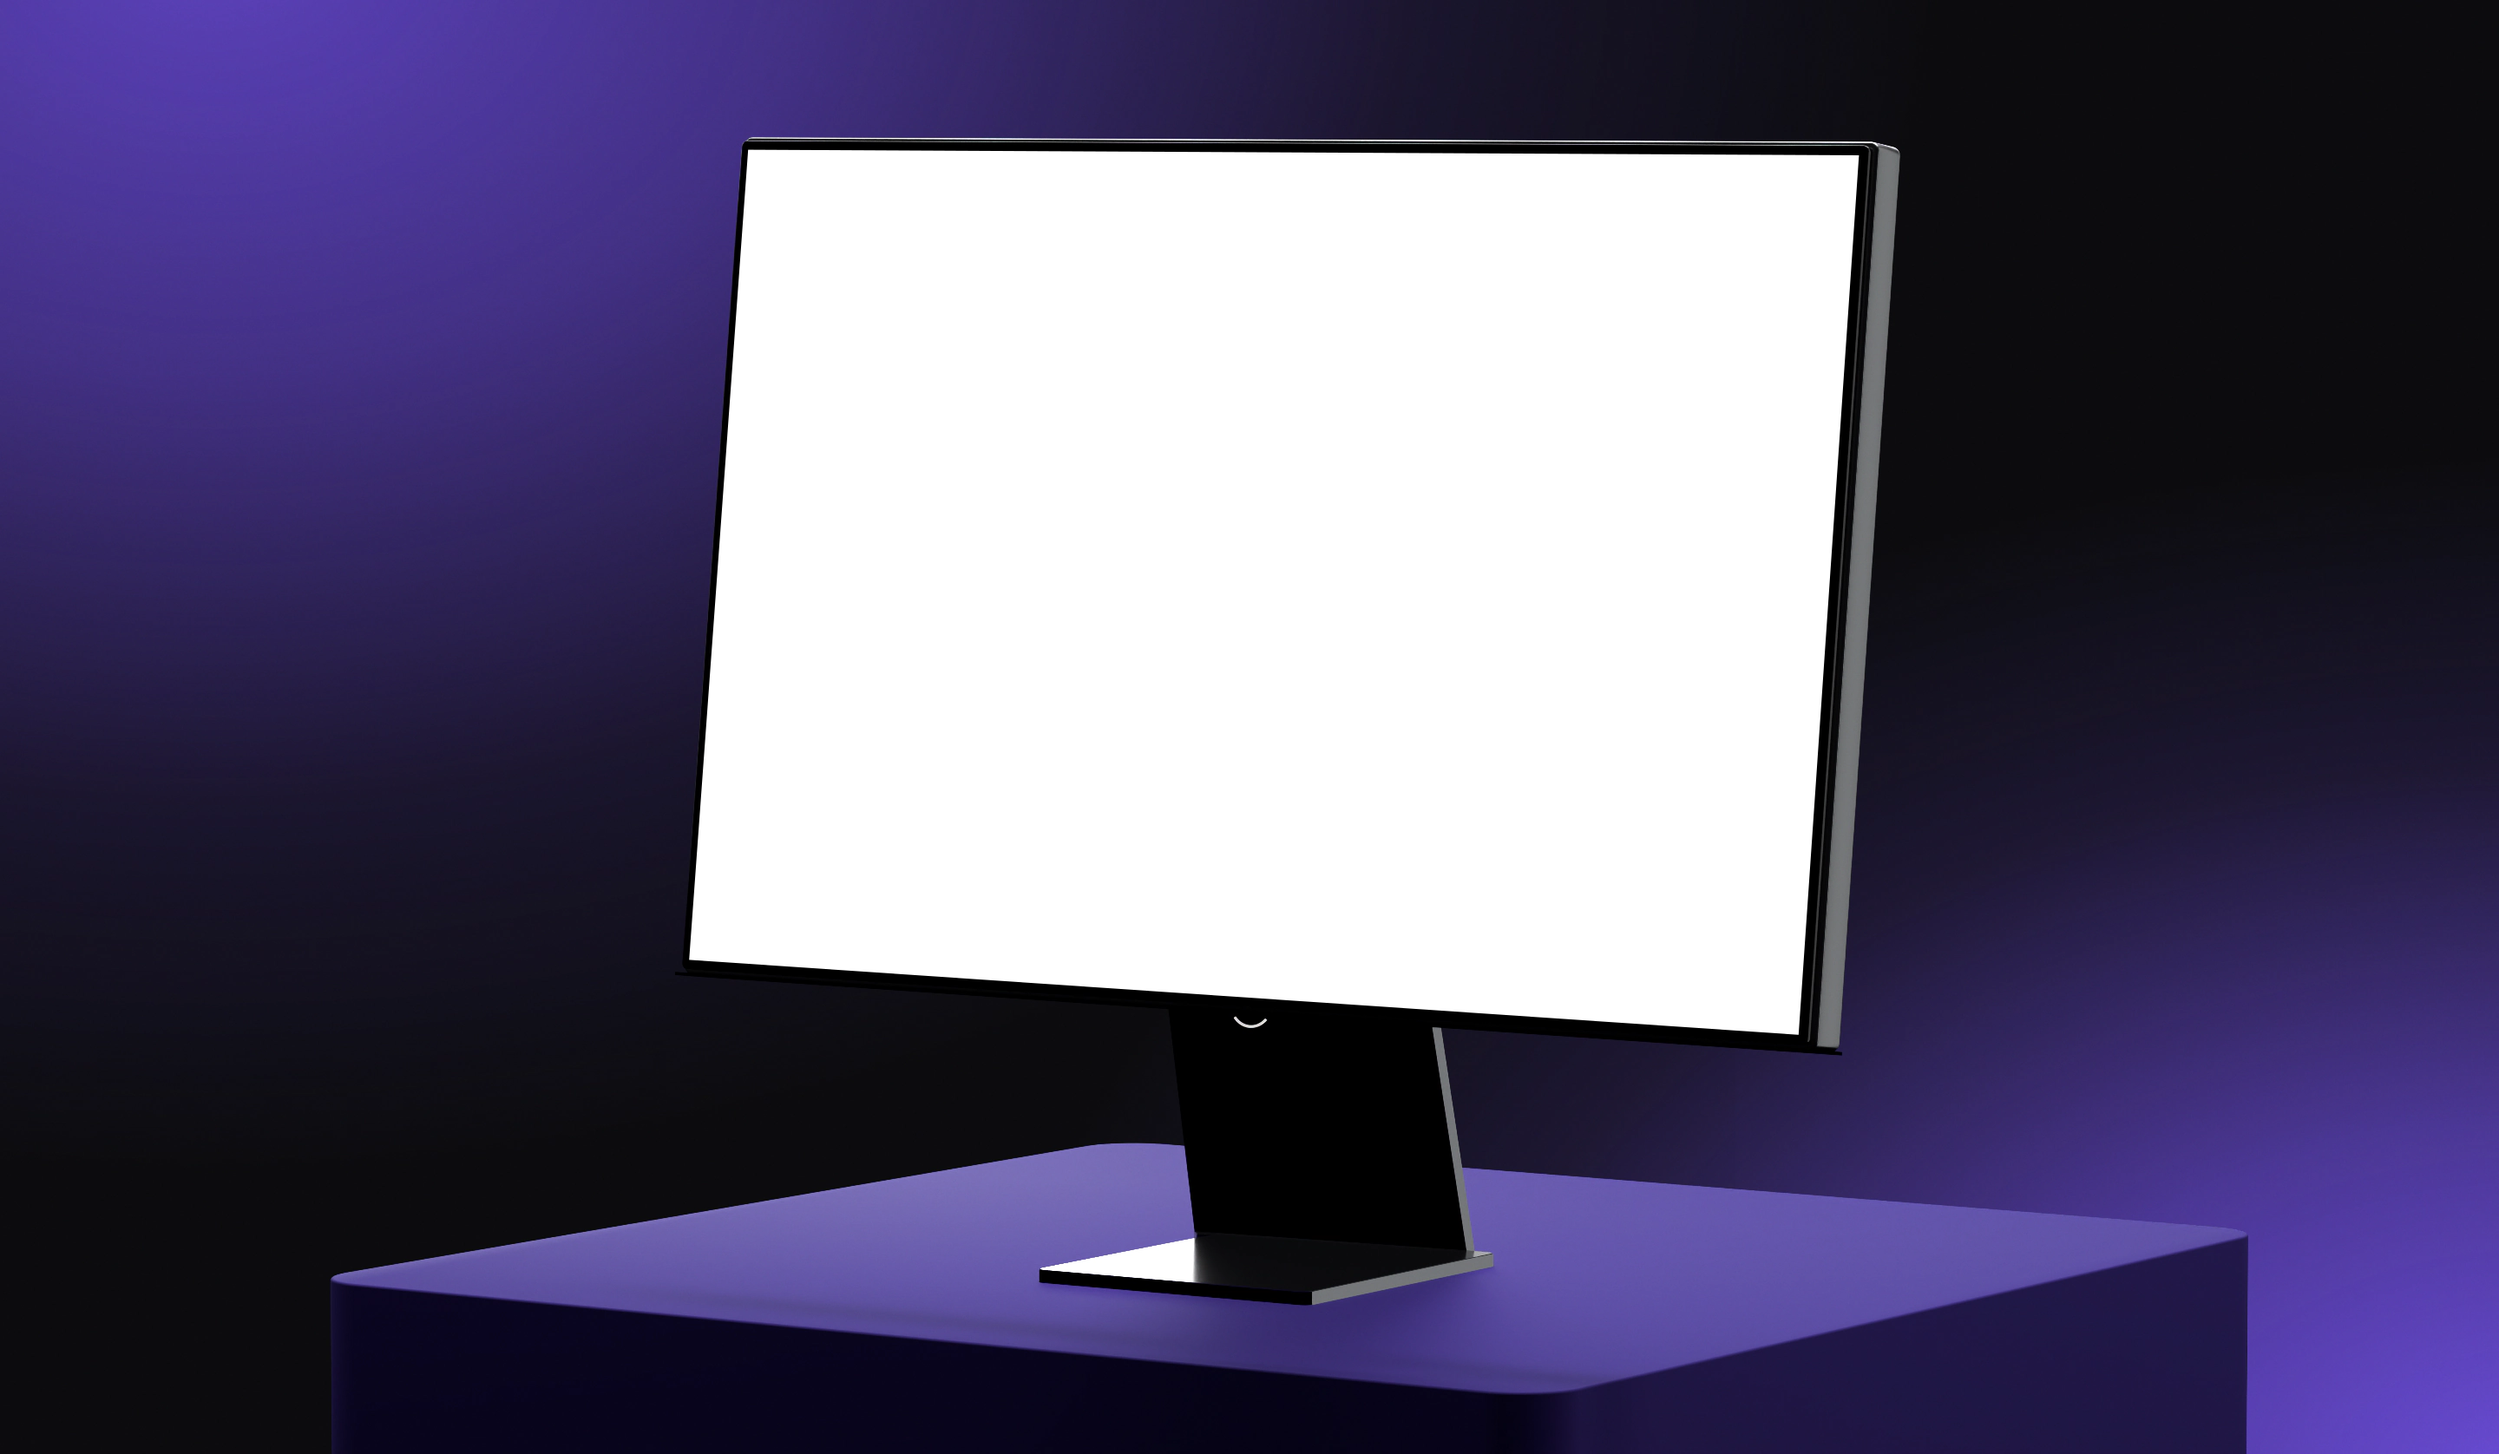
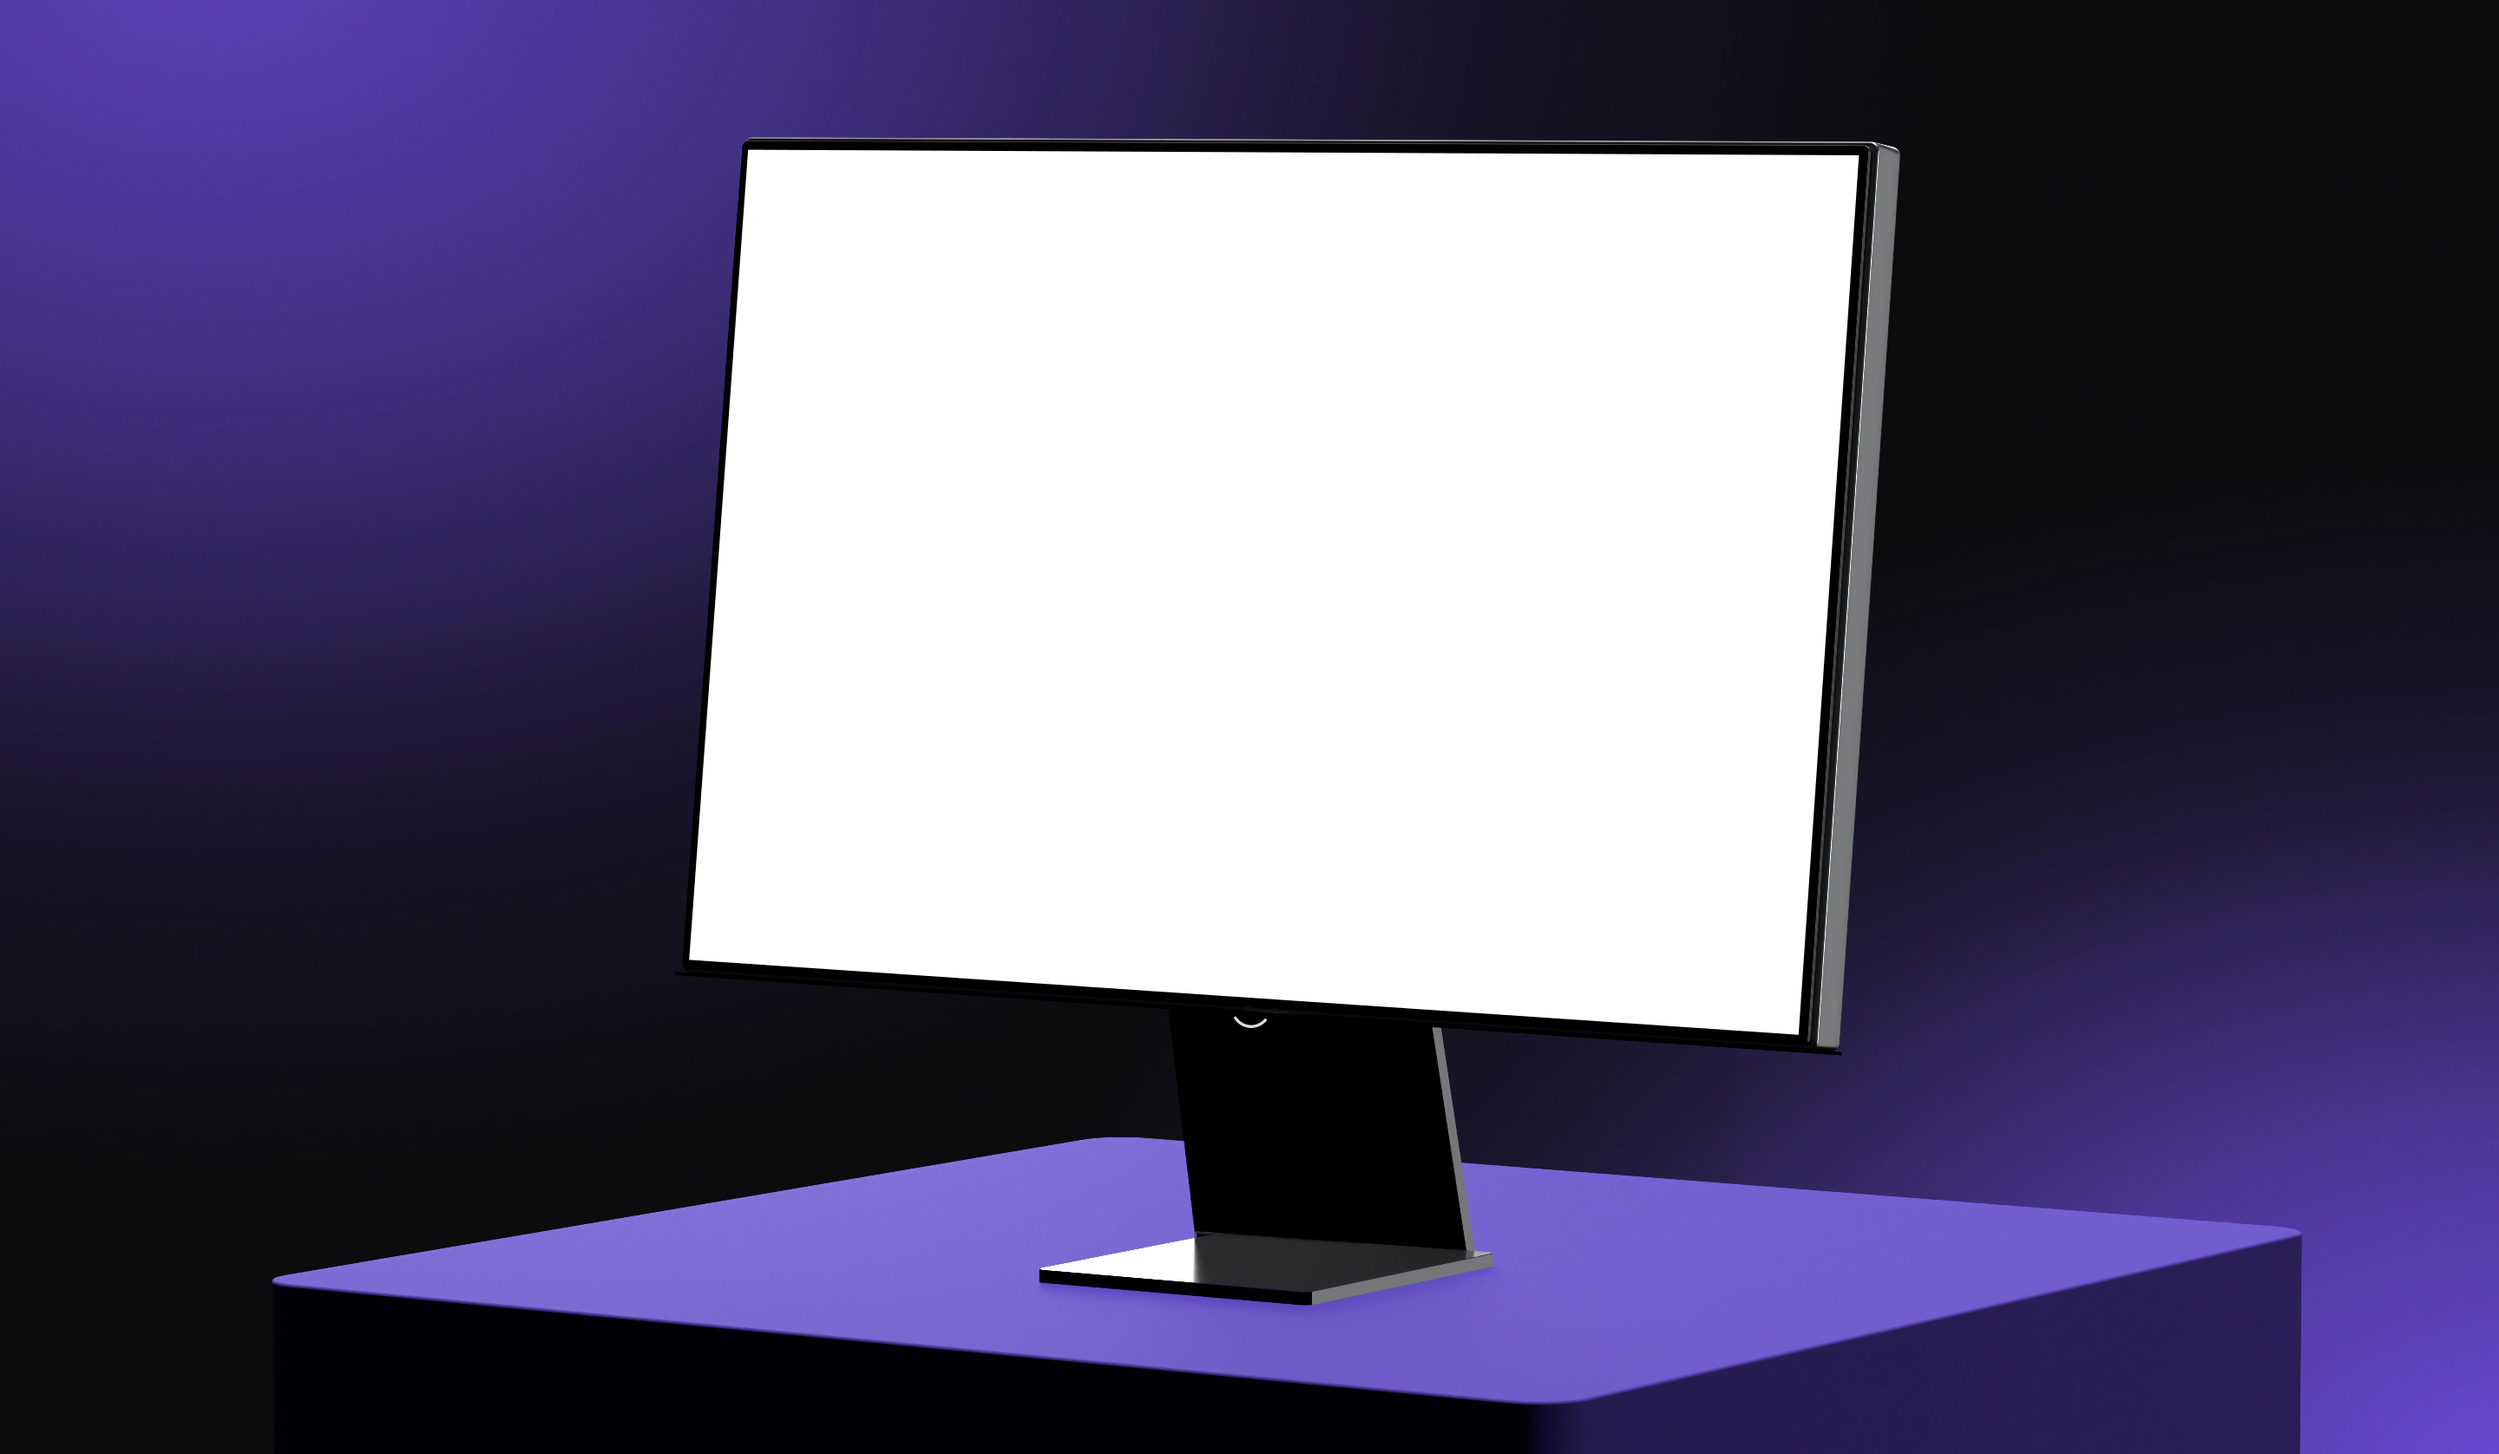
Devsign cover: plinth at its solved size, even top, dark sides

Changed region(s): [[0.0938, 0.7757, 0.9375, 1.0]]

diff --git a/scripts/cover-3d/blender_scene.py b/scripts/cover-3d/blender_scene.py
@@ -15,7 +15,7 @@ YAW, TILT, MON = -0.5903, -0.1270, (-0.0065, 1.1862, -0.02)
 BODY_W, BODY_H, TH = 1.6651, 1.07, 0.055
 BZ = 0.012
 SW, SH = BODY_W - 0.012 - 2 * BZ, BODY_H - 0.012 - 2 * BZ
-PYAW, PW, PD, PX, PZ, PY, PC = -0.5884, 1.8825, 1.8531, 0.0763, -0.8232, 0.2444, 0.085
+PYAW, PW, PD, PX, PZ, PY, PC = -0.5884, 1.9816, 1.9506, 0.0763, -0.8232, 0.2444, 0.07
 FYAW, FW, FD, FX, FZ, FY = -0.5710, 0.4143, 0.4616, 0.0236, -0.6270, 0.2684
 NECK_BASE = [[-0.0739, 0.2684, -0.9427], [0.284, 0.2684, -0.7442]]
 NECK_TOP = [[-0.0988, 0.6188, -0.1215], [0.2212, 0.6409, 0.0895]]
@@ -91,7 +91,10 @@ def solid(name, outline, z0, z1, M, material, bevel=0.0, bseg=4):
     bmesh.ops.recalc_face_normals(bm, faces=bm.faces)
     for f in bm.faces: f.smooth = True
     for e in bm.edges:
-        if len(e.link_faces) == 2 and e.calc_face_angle() > math.radians(32):
+        # Below 30 degrees only: a smooth rim would tilt the normals of the tall side faces upward.
+        if len(e.link_faces) != 2: continue
+        flat = abs(e.verts[0].co.z - e.verts[1].co.z) < 1e-4  # a horizontal rim edge
+        if e.calc_face_angle() > math.radians(26) or (flat and e.calc_face_angle() > math.radians(5)):
             e.smooth = False
     me = bpy.data.meshes.new(name)
     bm.to_mesh(me); bm.free()
@@ -167,7 +170,7 @@ u = (b - a).normalized() * 0.003
 hexa('neck_side', [b, c, c + n, b + n, b + u, c + u, c + n + u, b + n + u], STRIP)
 
 # The monitor casts no shadow, or its edge draws a straight line across the plinth.
-for name in ('shell', 'bezel'):
+for name in ('shell', 'bezel', 'underside', 'neck', 'neck_side', 'crescent'):
     bpy.data.objects[name].visible_shadow = False
 
 # Camera
@@ -190,15 +193,17 @@ def area(name, loc, target, size, size_y, power, color=(1, 1, 1)):
     return o
 
 # This one comes from behind the monitor; its shadow would lay a hard band across the plinth.
-area('top', (0.4, 6.0, -2.0), (0.2, 0.2, -0.3), 9, 4.4, 350).data.use_shadow = False
-area('over', (0.4, 7.0, -0.5), (0.3, 0.2, -0.4), 5, 1.4, 145)
-area('right', (7.5, 0.4, 2.2), (0.6, -0.4, 0), 1.6, 5, 15)
+area('top', (0.4, 6.0, -2.0), (0.2, 0.2, -0.3), 9, 4.4, 70).data.use_shadow = False
+# Straight down: lights the plinth's top evenly from edge to edge and leaves its sides alone.
+sun_d = bpy.data.lights.new('sun', 'SUN'); sun_d.energy = 4.8; sun_d.angle = math.radians(0.4)
+sun = bpy.data.objects.new('sun', sun_d); scene.collection.objects.link(sun); sun.rotation_euler = (0, 0, 0)
+area('right', (7.5, 0.4, 2.2), (0.6, -0.4, 0), 1.6, 5, 120)
 area('edge', (9.0, 0.6, -3.7), (0, 0.8, -0.3), 5, 12, 62)
 area('back', (-0.5, 3.4, -10), (0, 0.2, 0), 12, 3, 260)
 # Low behind the set: what the mirror-dark foot picks up on its left.
 area('foot', (-1.6, 1.5, -10.5), (-0.6, 0.27, -0.6), 2.9, 1.6, 120)
-area('left', (-7, 3.5, -3), (0, 1.2, 0), 3, 5, 26)
-area('front', (0.5, 2.2, 9), (0, 0.6, 0), 8, 2.4, 0.5)
+area('left', (-7, 3.5, -3), (0, 1.2, 0), 3, 5, 3)
+area('front', (0.5, 2.2, 9), (0, 0.6, 0), 8, 2.4, 3)
 
 w = bpy.data.worlds.new('w'); scene.world = w; w.use_nodes = True
 w.node_tree.nodes['Background'].inputs[0].default_value = (0.012, 0.009, 0.03, 1)
